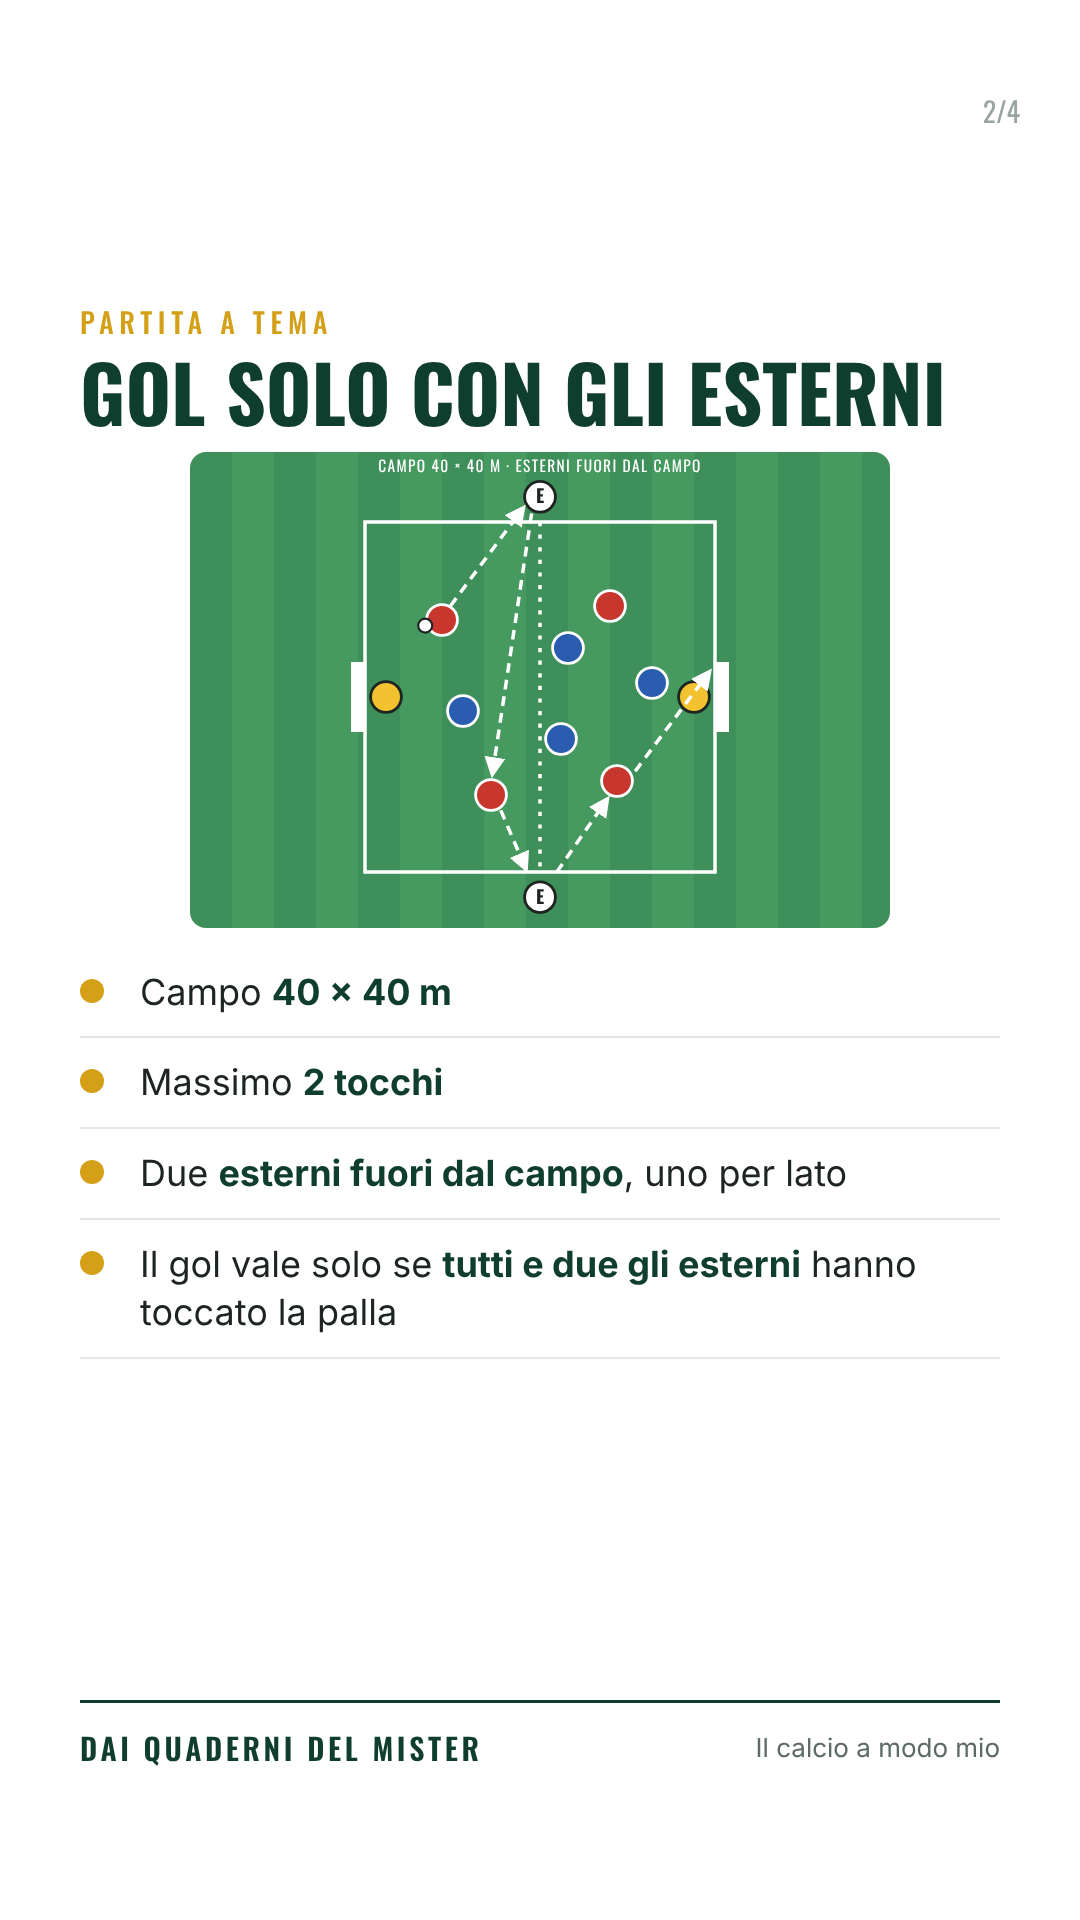
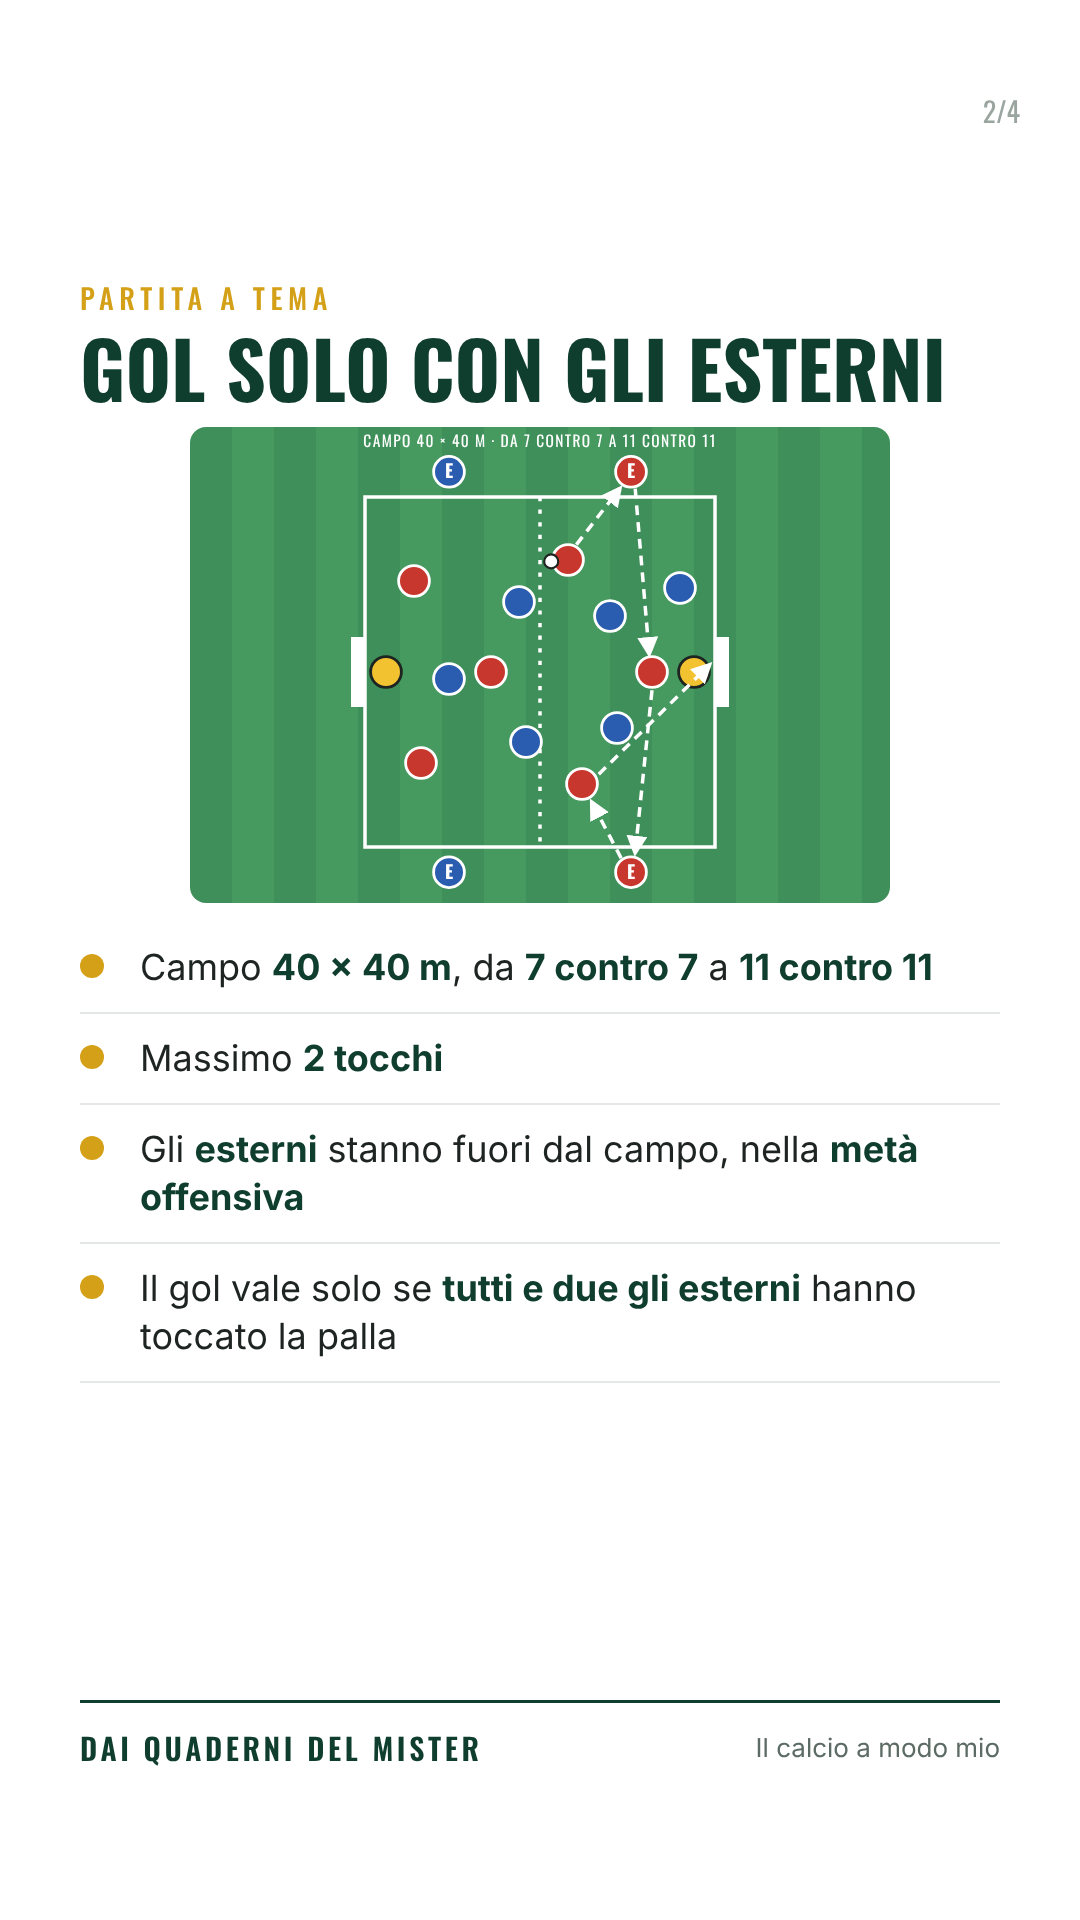
Post 11: da 7c7 a 11c11, esterni nella metà offensiva, frase dell'allenatore sui due tocchi
Claude-Session: https://claude.ai/code/session_01Y6imChDnJpMKHUHGGzDa7m

Changed region(s): [[0.0611, 0.125, 0.8861, 0.7188], [0.3056, 0.3125, 0.3361, 0.3438]]

diff --git a/marketing/social/post-solo11-4x5.html b/marketing/social/post-solo11-4x5.html
@@ -99,19 +99,18 @@ h1, h2 { font-family: Oswald, sans-serif; font-weight: 700; text-transform: uppe
     <g fill="none" stroke="#fff" stroke-width="2.5"><rect x="125" y="50" width="250" height="250"/><line x1="250" y1="50" x2="250" y2="300" stroke-dasharray="3 6"/></g>
     <rect x="115" y="150" width="10" height="50" fill="#fff"/><rect x="375" y="150" width="10" height="50" fill="#fff"/>
     <use href="#pP" x="140" y="175"/><use href="#pP" x="360" y="175"/>
-    <use href="#pA" x="180" y="120"/><use href="#pA" x="215" y="245"/><use href="#pA" x="305" y="235"/><use href="#pA" x="300" y="110"/><use href="#pB" x="270" y="140"/><use href="#pB" x="265" y="205"/><use href="#pB" x="330" y="165"/><use href="#pB" x="195" y="185"/>
-    <use href="#pJ" x="250" y="32"/><text x="250" y="36.5" font-family="Oswald" font-size="13" font-weight="700" text-anchor="middle" fill="#1d2421">E</text><use href="#pJ" x="250" y="318"/><text x="250" y="322.5" font-family="Oswald" font-size="13" font-weight="700" text-anchor="middle" fill="#1d2421">E</text>
-    <use href="#palla" x="168" y="124"/>
-    <path d="M186,110 L238,40" stroke="#fff" stroke-width="2.5" fill="none" stroke-dasharray="7 5" marker-end="url(#freccia)"/><path d="M244,44 L216,230" stroke="#fff" stroke-width="2.5" fill="none" stroke-dasharray="7 5" marker-end="url(#freccia)"/><path d="M222,256 L240,298" stroke="#fff" stroke-width="2.5" fill="none" stroke-dasharray="7 5" marker-end="url(#freccia)"/><path d="M262,300 L298,248" stroke="#fff" stroke-width="2.5" fill="none" stroke-dasharray="7 5" marker-end="url(#freccia)"/><path d="M318,228 L371,157" stroke="#fff" stroke-width="2.5" fill="none" stroke-dasharray="7 5" marker-end="url(#freccia)"/>
-    <text x="250" y="14" fill="#fff" font-family="Oswald" font-size="11" text-anchor="middle" letter-spacing="1">CAMPO 40 × 40 M · ESTERNI FUORI DAL CAMPO</text>
-  </svg></div><ul class="punti c"><li>Campo <b>40 × 40 m</b></li><li>Massimo <b>2 tocchi</b></li><li>Due <b>esterni fuori dal campo</b>, uno per lato</li><li>Il gol vale solo se <b>tutti e due gli esterni</b> hanno toccato la palla</li></ul>
+    <use href="#pA" x="160" y="110"/><use href="#pA" x="165" y="240"/><use href="#pA" x="215" y="175"/><use href="#pA" x="270" y="95"/><use href="#pA" x="280" y="255"/><use href="#pA" x="330" y="175"/><use href="#pB" x="185" y="180"/><use href="#pB" x="235" y="125"/><use href="#pB" x="240" y="225"/><use href="#pB" x="300" y="135"/><use href="#pB" x="305" y="215"/><use href="#pB" x="350" y="115"/><use href="#pA" x="315" y="32"/><text x="315" y="36.5" font-family="Oswald" font-size="13" font-weight="700" text-anchor="middle" fill="#fff">E</text><use href="#pA" x="315" y="318"/><text x="315" y="322.5" font-family="Oswald" font-size="13" font-weight="700" text-anchor="middle" fill="#fff">E</text><use href="#pB" x="185" y="32"/><text x="185" y="36.5" font-family="Oswald" font-size="13" font-weight="700" text-anchor="middle" fill="#fff">E</text><use href="#pB" x="185" y="318"/><text x="185" y="322.5" font-family="Oswald" font-size="13" font-weight="700" text-anchor="middle" fill="#fff">E</text>
+    <use href="#palla" x="258" y="96"/>
+    <path d="M276,84 L307,44" stroke="#fff" stroke-width="2.5" fill="none" stroke-dasharray="7 5" marker-end="url(#freccia)"/><path d="M318,44 L328,162" stroke="#fff" stroke-width="2.5" fill="none" stroke-dasharray="7 5" marker-end="url(#freccia)"/><path d="M330,188 L318,304" stroke="#fff" stroke-width="2.5" fill="none" stroke-dasharray="7 5" marker-end="url(#freccia)"/><path d="M308,308 L287,268" stroke="#fff" stroke-width="2.5" fill="none" stroke-dasharray="7 5" marker-end="url(#freccia)"/><path d="M292,248 L371,170" stroke="#fff" stroke-width="2.5" fill="none" stroke-dasharray="7 5" marker-end="url(#freccia)"/>
+    <text x="250" y="14" fill="#fff" font-family="Oswald" font-size="11" text-anchor="middle" letter-spacing="1">CAMPO 40 × 40 M · DA 7 CONTRO 7 A 11 CONTRO 11</text>
+  </svg></div><ul class="punti c"><li>Campo <b>40 × 40 m</b>, da <b>7 contro 7</b> a <b>11 contro 11</b></li><li>Massimo <b>2 tocchi</b></li><li>Gli <b>esterni</b> stanno fuori dal campo, nella <b>metà offensiva</b></li><li>Il gol vale solo se <b>tutti e due gli esterni</b> hanno toccato la palla</li></ul>
   <div class="marchio"><b>DAI QUADERNI DEL MISTER</b><span>Il calcio a modo mio</span></div>
 </section>
 <section class="slide int">
   <div class="num">3/4</div>
   <div class="kicker">L'obiettivo</div>
-  <h2 style="">Perché questa regola?</h2>
-  <div class="obiettivo" style="margin-top:120px;padding:90px 50px;font-size:110px"><span>Obiettivo primario</span>Muovere la palla</div>
+  <h2 style="">Perché due tocchi?</h2>
+  <div class="obiettivo"><span>Obiettivo primario</span>Muovere la palla</div><p class="desc">«In 40 × 40, se non muovi la palla in maniera veloce <b>non esci mai</b>: hai subito la gente addosso.»</p><p class="desc" style="color:#5d6b65;font-size:32px">Per Juniores e Prime Squadre.</p>
   <div class="marchio"><b>DAI QUADERNI DEL MISTER</b><span>Il calcio a modo mio</span></div>
 </section>
 <section class="slide fine">

diff --git a/marketing/social/post-solo11-9x16.html b/marketing/social/post-solo11-9x16.html
@@ -99,19 +99,18 @@ h1, h2 { font-family: Oswald, sans-serif; font-weight: 700; text-transform: uppe
     <g fill="none" stroke="#fff" stroke-width="2.5"><rect x="125" y="50" width="250" height="250"/><line x1="250" y1="50" x2="250" y2="300" stroke-dasharray="3 6"/></g>
     <rect x="115" y="150" width="10" height="50" fill="#fff"/><rect x="375" y="150" width="10" height="50" fill="#fff"/>
     <use href="#pP" x="140" y="175"/><use href="#pP" x="360" y="175"/>
-    <use href="#pA" x="180" y="120"/><use href="#pA" x="215" y="245"/><use href="#pA" x="305" y="235"/><use href="#pA" x="300" y="110"/><use href="#pB" x="270" y="140"/><use href="#pB" x="265" y="205"/><use href="#pB" x="330" y="165"/><use href="#pB" x="195" y="185"/>
-    <use href="#pJ" x="250" y="32"/><text x="250" y="36.5" font-family="Oswald" font-size="13" font-weight="700" text-anchor="middle" fill="#1d2421">E</text><use href="#pJ" x="250" y="318"/><text x="250" y="322.5" font-family="Oswald" font-size="13" font-weight="700" text-anchor="middle" fill="#1d2421">E</text>
-    <use href="#palla" x="168" y="124"/>
-    <path d="M186,110 L238,40" stroke="#fff" stroke-width="2.5" fill="none" stroke-dasharray="7 5" marker-end="url(#freccia)"/><path d="M244,44 L216,230" stroke="#fff" stroke-width="2.5" fill="none" stroke-dasharray="7 5" marker-end="url(#freccia)"/><path d="M222,256 L240,298" stroke="#fff" stroke-width="2.5" fill="none" stroke-dasharray="7 5" marker-end="url(#freccia)"/><path d="M262,300 L298,248" stroke="#fff" stroke-width="2.5" fill="none" stroke-dasharray="7 5" marker-end="url(#freccia)"/><path d="M318,228 L371,157" stroke="#fff" stroke-width="2.5" fill="none" stroke-dasharray="7 5" marker-end="url(#freccia)"/>
-    <text x="250" y="14" fill="#fff" font-family="Oswald" font-size="11" text-anchor="middle" letter-spacing="1">CAMPO 40 × 40 M · ESTERNI FUORI DAL CAMPO</text>
-  </svg></div><ul class="punti c"><li>Campo <b>40 × 40 m</b></li><li>Massimo <b>2 tocchi</b></li><li>Due <b>esterni fuori dal campo</b>, uno per lato</li><li>Il gol vale solo se <b>tutti e due gli esterni</b> hanno toccato la palla</li></ul>
+    <use href="#pA" x="160" y="110"/><use href="#pA" x="165" y="240"/><use href="#pA" x="215" y="175"/><use href="#pA" x="270" y="95"/><use href="#pA" x="280" y="255"/><use href="#pA" x="330" y="175"/><use href="#pB" x="185" y="180"/><use href="#pB" x="235" y="125"/><use href="#pB" x="240" y="225"/><use href="#pB" x="300" y="135"/><use href="#pB" x="305" y="215"/><use href="#pB" x="350" y="115"/><use href="#pA" x="315" y="32"/><text x="315" y="36.5" font-family="Oswald" font-size="13" font-weight="700" text-anchor="middle" fill="#fff">E</text><use href="#pA" x="315" y="318"/><text x="315" y="322.5" font-family="Oswald" font-size="13" font-weight="700" text-anchor="middle" fill="#fff">E</text><use href="#pB" x="185" y="32"/><text x="185" y="36.5" font-family="Oswald" font-size="13" font-weight="700" text-anchor="middle" fill="#fff">E</text><use href="#pB" x="185" y="318"/><text x="185" y="322.5" font-family="Oswald" font-size="13" font-weight="700" text-anchor="middle" fill="#fff">E</text>
+    <use href="#palla" x="258" y="96"/>
+    <path d="M276,84 L307,44" stroke="#fff" stroke-width="2.5" fill="none" stroke-dasharray="7 5" marker-end="url(#freccia)"/><path d="M318,44 L328,162" stroke="#fff" stroke-width="2.5" fill="none" stroke-dasharray="7 5" marker-end="url(#freccia)"/><path d="M330,188 L318,304" stroke="#fff" stroke-width="2.5" fill="none" stroke-dasharray="7 5" marker-end="url(#freccia)"/><path d="M308,308 L287,268" stroke="#fff" stroke-width="2.5" fill="none" stroke-dasharray="7 5" marker-end="url(#freccia)"/><path d="M292,248 L371,170" stroke="#fff" stroke-width="2.5" fill="none" stroke-dasharray="7 5" marker-end="url(#freccia)"/>
+    <text x="250" y="14" fill="#fff" font-family="Oswald" font-size="11" text-anchor="middle" letter-spacing="1">CAMPO 40 × 40 M · DA 7 CONTRO 7 A 11 CONTRO 11</text>
+  </svg></div><ul class="punti c"><li>Campo <b>40 × 40 m</b>, da <b>7 contro 7</b> a <b>11 contro 11</b></li><li>Massimo <b>2 tocchi</b></li><li>Gli <b>esterni</b> stanno fuori dal campo, nella <b>metà offensiva</b></li><li>Il gol vale solo se <b>tutti e due gli esterni</b> hanno toccato la palla</li></ul>
   <div class="marchio"><b>DAI QUADERNI DEL MISTER</b><span>Il calcio a modo mio</span></div>
 </section>
 <section class="slide int">
   <div class="num">3/4</div>
   <div class="kicker">L'obiettivo</div>
-  <h2 style="">Perché questa regola?</h2>
-  <div class="obiettivo" style="margin-top:120px;padding:90px 50px;font-size:110px"><span>Obiettivo primario</span>Muovere la palla</div>
+  <h2 style="">Perché due tocchi?</h2>
+  <div class="obiettivo"><span>Obiettivo primario</span>Muovere la palla</div><p class="desc">«In 40 × 40, se non muovi la palla in maniera veloce <b>non esci mai</b>: hai subito la gente addosso.»</p><p class="desc" style="color:#5d6b65;font-size:32px">Per Juniores e Prime Squadre.</p>
   <div class="marchio"><b>DAI QUADERNI DEL MISTER</b><span>Il calcio a modo mio</span></div>
 </section>
 <section class="slide fine">

diff --git a/marketing/social/genera-post.py b/marketing/social/genera-post.py
@@ -179,23 +179,24 @@ def schema_pressione_squadra():
     return _campo_pressione(extra, "LA SQUADRA SI MUOVE INSIEME")
 
 def schema_esterni():
-    rossi = [(180, 120), (215, 245), (305, 235), (300, 110)]
-    blu = [(270, 140), (265, 205), (330, 165), (195, 185)]
+    rossi = [(160, 110), (165, 240), (215, 175), (270, 95), (280, 255), (330, 175)]
+    blu = [(185, 180), (235, 125), (240, 225), (300, 135), (305, 215), (350, 115)]
     gioc = "".join(g(x, y, "pA") for x, y in rossi) + "".join(g(x, y, "pB") for x, y in blu)
-    passaggi = (freccia("M186,110 L238,40", tratteggio=True) + freccia("M244,44 L216,230", tratteggio=True)
-                + freccia("M222,256 L240,298", tratteggio=True) + freccia("M262,300 L298,248", tratteggio=True)
-                + freccia("M318,228 L371,157", tratteggio=True))
+    est = (g(315, 32, "pA", "E") + g(315, 318, "pA", "E") + g(185, 32, "pB", "E") + g(185, 318, "pB", "E"))
+    passaggi = (freccia("M276,84 L307,44", tratteggio=True) + freccia("M318,44 L328,162", tratteggio=True)
+                + freccia("M330,188 L318,304", tratteggio=True) + freccia("M308,308 L287,268", tratteggio=True)
+                + freccia("M292,248 L371,170", tratteggio=True))
     return f'''<svg class="schema" viewBox="0 0 500 340">
     <rect width="500" height="340" fill="url(#strisce)"/>
     <g fill="none" stroke="#fff" stroke-width="2.5"><rect x="125" y="50" width="250" height="250"/><line x1="250" y1="50" x2="250" y2="300" stroke-dasharray="3 6"/></g>
     <rect x="115" y="150" width="10" height="50" fill="#fff"/><rect x="375" y="150" width="10" height="50" fill="#fff"/>
     {g(140, 175, "pP")}{g(360, 175, "pP")}
-    {gioc}
-    {g(250, 32, "pJ", "E", "#1d2421")}{g(250, 318, "pJ", "E", "#1d2421")}
-    <use href="#palla" x="168" y="124"/>
+    {gioc}{est}
+    <use href="#palla" x="258" y="96"/>
     {passaggi}
-    <text x="250" y="14" fill="#fff" font-family="Oswald" font-size="11" text-anchor="middle" letter-spacing="1">CAMPO 40 × 40 M · ESTERNI FUORI DAL CAMPO</text>
+    <text x="250" y="14" fill="#fff" font-family="Oswald" font-size="11" text-anchor="middle" letter-spacing="1">CAMPO 40 × 40 M · DA 7 CONTRO 7 A 11 CONTRO 11</text>
   </svg>'''
+
 
 # ---------- Contenuti dei post (regole e punti presi dai fogli dell'allenatore)
 POST = [
@@ -382,13 +383,13 @@ POST = [
         kick="Dai quaderni del mister", marchio="DAI QUADERNI DEL MISTER",
         custom=[
             dict(kicker="Partita a tema", titolo="Gol solo con gli esterni", schema=schema_esterni(),
-                 punti=["Campo <b>40 × 40 m</b>",
+                 punti=["Campo <b>40 × 40 m</b>, da <b>7 contro 7</b> a <b>11 contro 11</b>",
                         "Massimo <b>2 tocchi</b>",
-                        "Due <b>esterni fuori dal campo</b>, uno per lato",
+                        "Gli <b>esterni</b> stanno fuori dal campo, nella <b>metà offensiva</b>",
                         "Il gol vale solo se <b>tutti e due gli esterni</b> hanno toccato la palla"], compact=True,
                  h2style="margin-bottom:20px", riqstyle="width:100%;max-width:700px;margin:0 auto"),
-            dict(kicker="L'obiettivo", titolo="Perché questa regola?",
-                 html='<div class="obiettivo" style="margin-top:120px;padding:90px 50px;font-size:110px"><span>Obiettivo primario</span>Muovere la palla</div>'),
+            dict(kicker="L'obiettivo", titolo="Perché due tocchi?",
+                 html='<div class="obiettivo"><span>Obiettivo primario</span>Muovere la palla</div><p class="desc">«In 40 × 40, se non muovi la palla in maniera veloce <b>non esci mai</b>: hai subito la gente addosso.»</p><p class="desc" style="color:#5d6b65;font-size:32px">Per Juniores e Prime Squadre.</p>'),
         ],
         fine_h1="Muovere<span>la palla</span>",
         fine_sub="Le idee dei quaderni escono prima sul canale WhatsApp <b>Il calcio a modo mio</b>. Link in bio.",

diff --git a/marketing/social/testi-dei-post.md b/marketing/social/testi-dei-post.md
@@ -216,7 +216,7 @@ Vuoi una squadra che impari a pressare nel modo giusto e a colpire dopo aver rec
 Uno va in pressione. E gli altri? Pressare è individuale, farlo insieme si allena. #allenatore #calcio #pressing #mister
 
 ## Post 11 – "Il gol vale solo se l'hanno toccata gli esterni" (sabato 31/10, 13:00, 4 slide, tema avorio)
-Dalla nota dell'allenatore del 30/10 (`materiale/da-classificare/note-2026-10-30-tre-partite-40m.png`), I partita: campo 40 × 40 m (detto da lui), 2 tocchi, esterni fuori dal campo (detto da lui), gol valido solo se tutti e due gli esterni toccano la palla. Obiettivo primario (suo): muovere la palla. Disegnati da Claude: esterni come jolly neutri, 4 contro 4 con portieri (da confermare). Slide con la domanda tolta dall'allenatore.
+Dalla nota dell'allenatore del 30/10 (`materiale/da-classificare/note-2026-10-30-tre-partite-40m.png`), I partita: campo 40 × 40 m (detto da lui), 2 tocchi, esterni fuori dal campo (detto da lui), gol valido solo se tutti e due gli esterni toccano la palla. Obiettivo primario (suo): muovere la palla. Correzione dell'allenatore (30/10): si gioca da 7c7 a 11c11 sempre nel 40 × 40, gli esterni stanno nella metà campo offensiva, a 2 tocchi perché con Juniores e Prime Squadre "se non muovi la palla in maniera veloce non esci mai, hai subito la gente addosso" (frase sua nella slide 3). Disegno di Claude: ogni squadra con i suoi due esterni, fuori dal campo lungo la propria metà offensiva (da confermare). Slide con la domanda tolta dall'allenatore.
 
 **Didascalia Instagram / Facebook**
 Il gol vale solo se l'hanno toccata tutti e due gli esterni.
